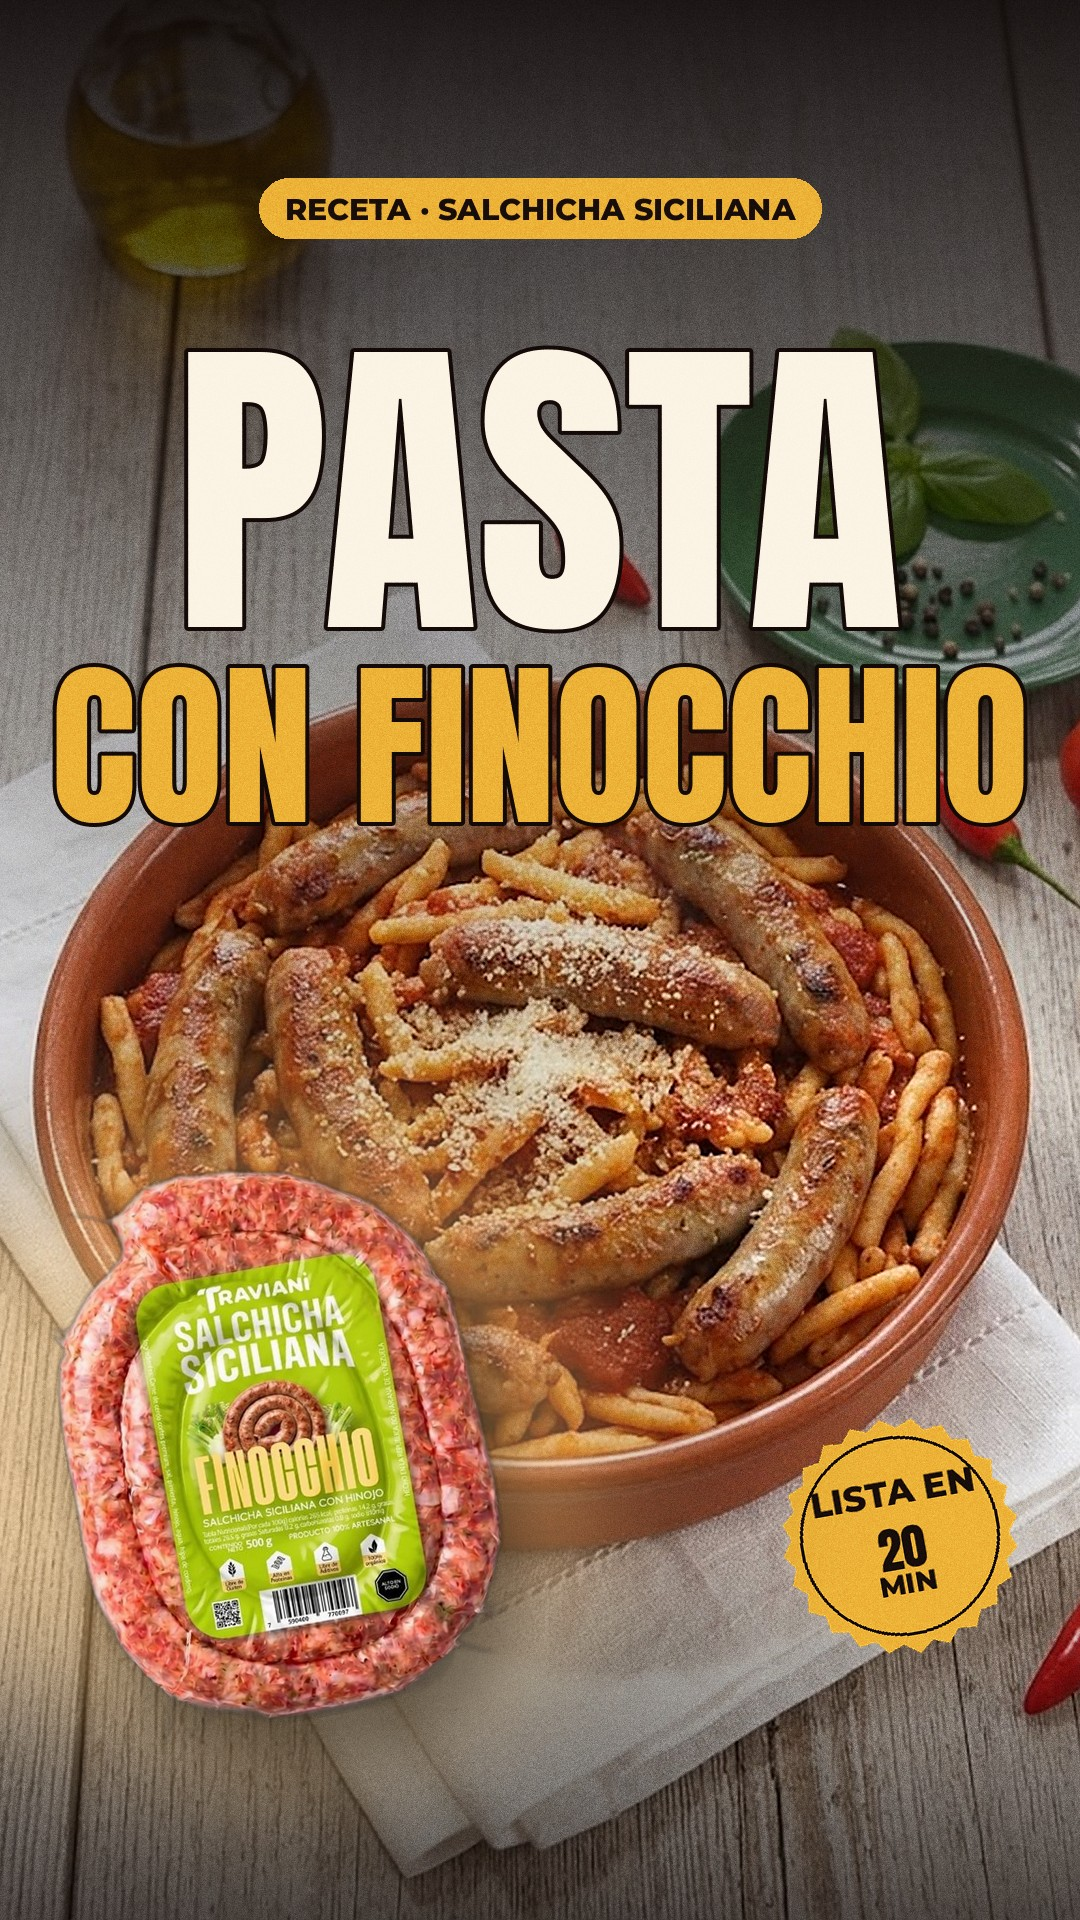
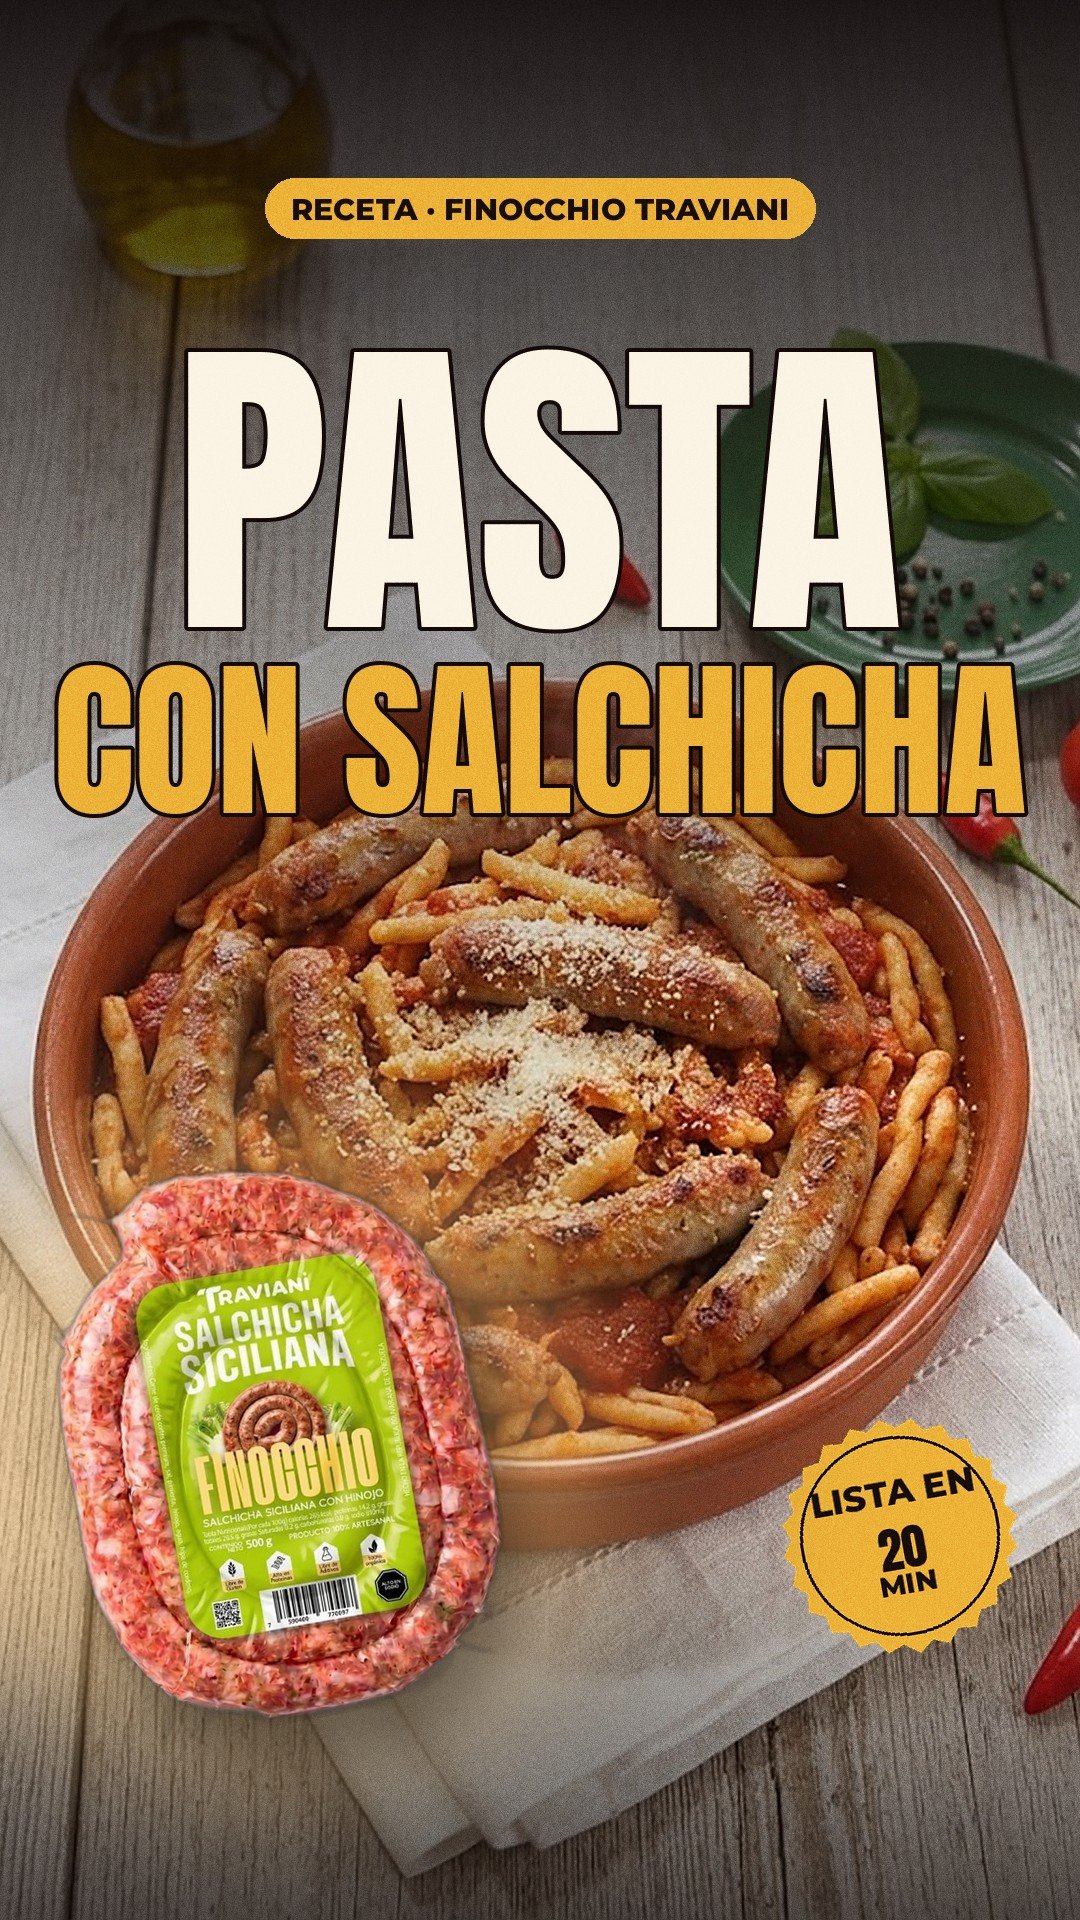
Día 3: título Pasta con salchicha
Claude-Session: https://claude.ai/code/session_01BoapLYkqJjC4bybfaGWR3T

Changed region(s): [[0.0306, 0.3438, 0.9778, 0.4375], [0.2444, 0.0938, 0.7639, 0.125]]

diff --git a/dia03_v4.py b/dia03_v4.py
@@ -12,7 +12,7 @@ ROJO = (196, 44, 26)
 
 def portada():
     foto = D.cargar("pasta.png")
-    im = D.portada_foto(foto, "PASTA", "CON FINOCCHIO", "RECETA · SALCHICHA SICILIANA", ["LISTA EN", "20", "MIN"], 7).convert("RGBA")
+    im = D.portada_foto(foto, "PASTA", "CON SALCHICHA", "RECETA · FINOCCHIO TRAVIANI", ["LISTA EN", "20", "MIN"], 7).convert("RGBA")
     h = im.height
     p = empaque(1, 560 if g.tt() else 520, 10)
     pegar_producto(im, p, (20, int(h * (0.73 if g.tt() else 0.66)) - p.height // 2 + 40), brillo=(255, 200, 120))
